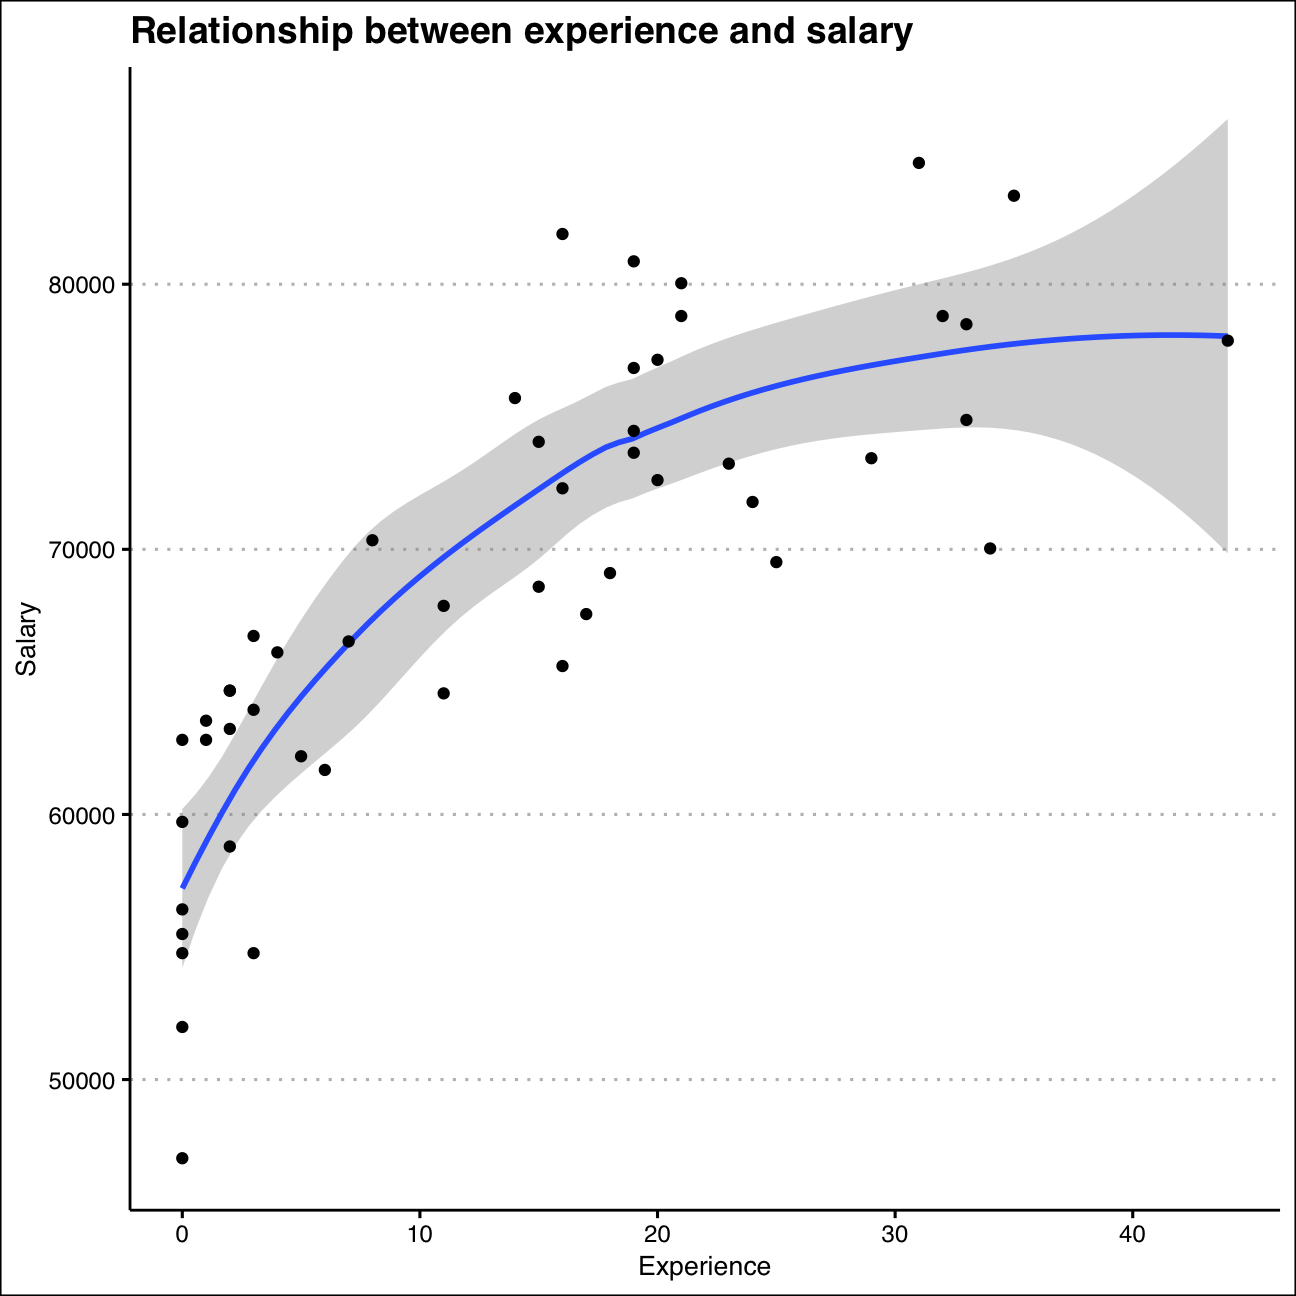
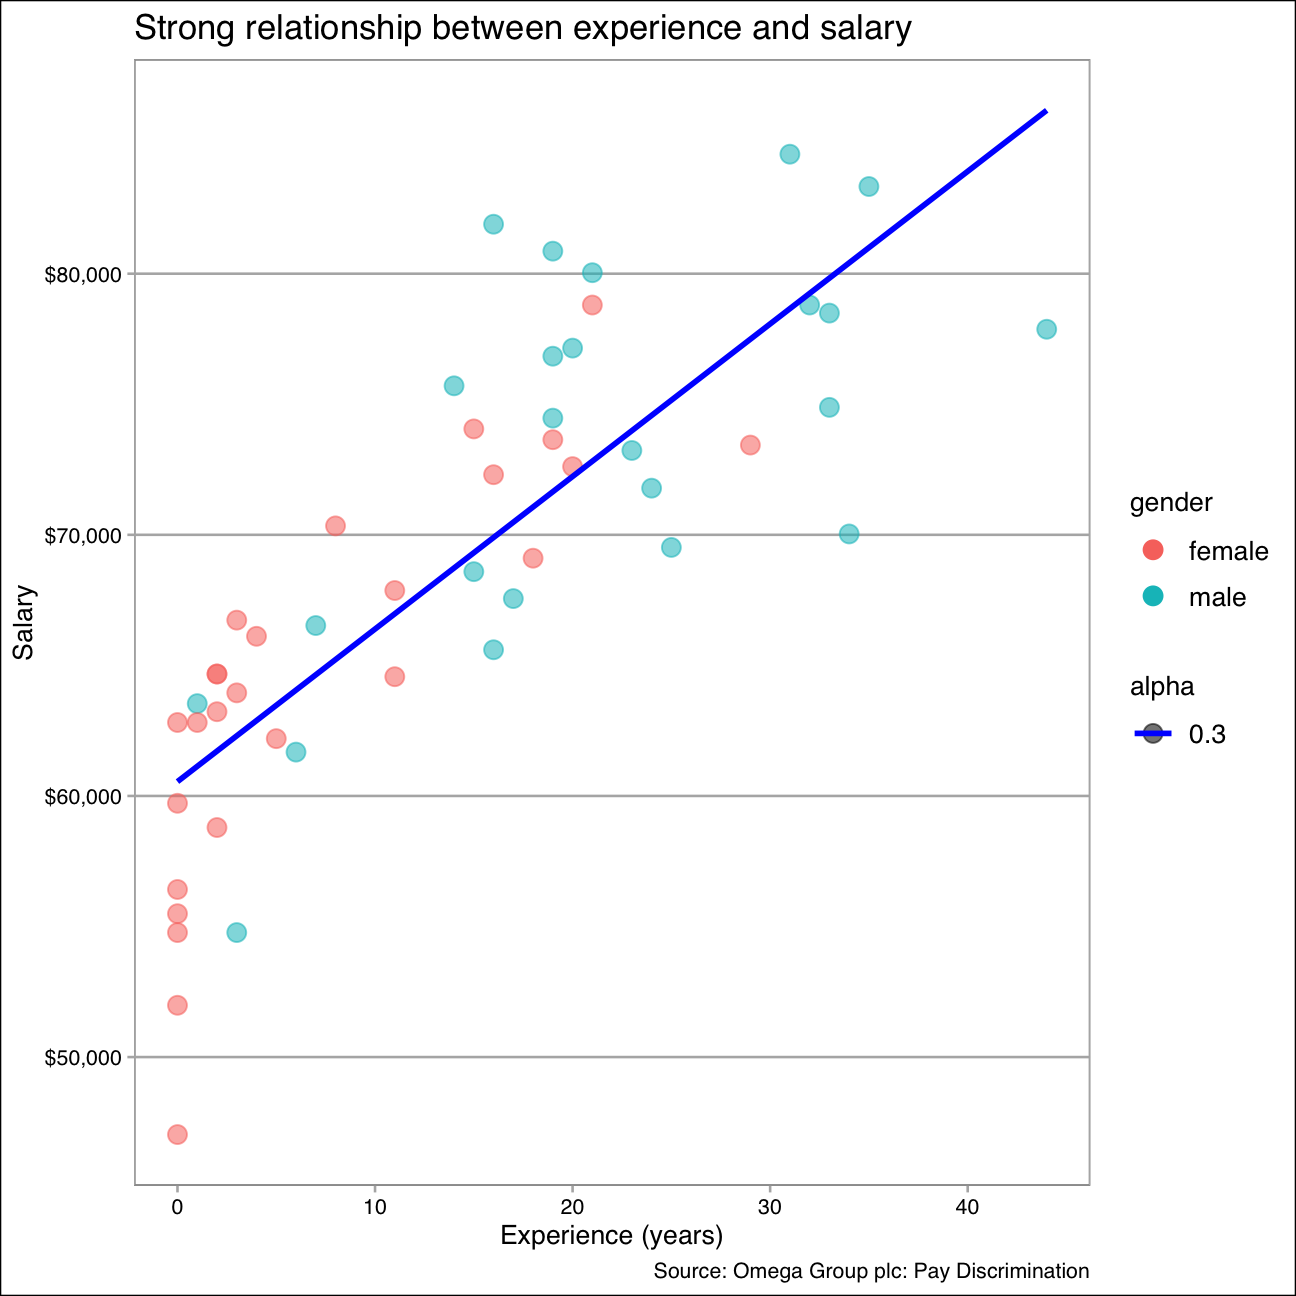
123

diff --git a/content/blogs/project_gender/blog5.html b/content/blogs/project_gender/blog5.html
@@ -15,8 +15,10 @@ title: Gender Pay Gap
 
 <div id="omega-group-plc--pay-discrimination" class="section level1">
 <h1>Omega Group plc- Pay Discrimination</h1>
-<p>At the last board meeting of Omega Group Plc., the headquarters of a large multinational company, the issue was raised that women were being discriminated in the company, in the sense that the salaries were not the same for male and female executives. A quick analysis of a sample of 50 employees (of which 24 men and 26 women) revealed that the average salary for men was about 8,700 higher than for women. This seemed like a considerable difference, so it was decided that a further analysis of the company salaries should be conducted.</p>
-<p>Our team carried out the analysis to find out whether there is indeed a significant difference between the salaries of men and women, and whether the difference is due to discrimination or whether it is based on another, possibly valid, determining factor.</p>
+<p>Scenario: A sample of 50 employees (24 men, 26 women) at Omega Group Plc showed a 8,700 difference in average salary for men compared to women.</p>
+<p>We are going to investigate whether this marked difference is indeed significant and whether there is an observable factor (such as experience) that could explain the difference.</p>
+<div id="loading-the-data" class="section level2">
+<h2>Loading the data</h2>
 <pre class="r"><code>omega &lt;- read_csv(here::here(&quot;data&quot;, &quot;omega.csv&quot;))
 glimpse(omega) # examine the data frame</code></pre>
 <pre><code>## Rows: 50
@@ -24,38 +26,32 @@ glimpse(omega) # examine the data frame</code></pre>
 ## $ salary     &lt;dbl&gt; 81894, 69517, 68589, 74881, 65598, 76840, 78800, 70033, 63…
 ## $ gender     &lt;chr&gt; &quot;male&quot;, &quot;male&quot;, &quot;male&quot;, &quot;male&quot;, &quot;male&quot;, &quot;male&quot;, &quot;male&quot;, &quot;m…
 ## $ experience &lt;dbl&gt; 16, 25, 15, 33, 16, 19, 32, 34, 1, 44, 7, 14, 33, 19, 24, …</code></pre>
-<div id="is-there-a-significant-difference-between-the-salaries-of-the-male-and-female-executives" class="section level2">
-<h2>Is there a significant difference between the salaries of the male and female executives?</h2>
+</div>
+<div id="relationship-salary---gender" class="section level2">
+<h2>Relationship Salary - Gender ?</h2>
+<p>Lets find out if there is a relationship between gender and pay.</p>
 <pre class="r"><code># Summary Statistics of salary by gender
-mosaic::favstats (salary ~ gender, data=omega)</code></pre>
-<pre><code>##   gender   min    Q1 median    Q3   max  mean   sd  n missing
-## 1 female 47033 60338  64618 70033 78800 64543 7567 26       0
-## 2   male 54768 68331  74675 78568 84576 73239 7463 24       0</code></pre>
-<pre class="r"><code># Dataframe with two rows (male-female) and having as columns gender, mean, SD, sample size, 
+gender_dataframe &lt;- mosaic::favstats (salary ~ gender, data=omega)
+
+# Dataframe with two rows (male-female) and having as columns gender, mean, SD, sample size, 
 # the t-critical value, the standard error, the margin of error, 
 # and the low/high endpoints of a 95% confidence interval
-statistics&lt;-omega%&gt;%
-select(salary,gender)%&gt;%
-  group_by(gender)%&gt;%
-  summarise(mean = mean(salary),
-            SD = sd(salary),
-            SampleSize = n(),
-            t_crit = qt(0.975,SampleSize-1),
-            SE = SD/sqrt(SampleSize),
-            MarginError = t_crit*SE,
-            LowBound = mean - MarginError,
-            HighBound = mean + MarginError)
-statistics</code></pre>
-<pre><code>## # A tibble: 2 x 9
-##   gender   mean    SD SampleSize t_crit    SE MarginError LowBound HighBound
-##   &lt;chr&gt;   &lt;dbl&gt; &lt;dbl&gt;      &lt;int&gt;  &lt;dbl&gt; &lt;dbl&gt;       &lt;dbl&gt;    &lt;dbl&gt;     &lt;dbl&gt;
-## 1 female 64543. 7567.         26   2.06 1484.       3056.   61486.    67599.
-## 2 male   73239. 7463.         24   2.07 1523.       3151.   70088.    76390.</code></pre>
+gender_dataframe2 &lt;- gender_dataframe %&gt;%
+  mutate(t_crit =qt(0.975,n-1),
+         SE = sd/sqrt(n),
+         ME = t_crit*SE,
+         lower = mean - ME,
+         upper = mean + ME)
+select(gender_dataframe2,-min, -Q1, -median, -Q3, -max, -missing)</code></pre>
+<pre><code>##   gender  mean   sd  n t_crit   SE   ME lower upper
+## 1 female 64543 7567 26   2.06 1484 3056 61486 67599
+## 2   male 73239 7463 24   2.07 1523 3151 70088 76390</code></pre>
 <blockquote>
-<p>From the data obtained, we can observe that the confidence intervals do not overlap. Hence, we can conclude that there is a significant difference between the salaries of male and female executives.</p>
+<p>We can conclude that based on the dataset above, there is a significant difference between the salaries paid to men and women. We can be 95% certain of this because, at this significance level, the two different confidence intervals do not overlap. Therefore it is very unlikely that the difference in salary averages paid to men and women occured by coincidence.</p>
 </blockquote>
-<pre class="r"><code># Hypothesis testing using t.test() 
-t.test(salary ~ gender, data = omega)</code></pre>
+<p>Next, we will conduct a hypothesis test to assess whether our null hypothesis, that salary averages of men and women are not significantly different, is accepted or rejected.</p>
+<pre class="r"><code># hypothesis testing using t.test() 
+t.test(salary ~ gender, data=omega)</code></pre>
 <pre><code>## 
 ##  Welch Two Sample t-test
 ## 
@@ -67,65 +63,70 @@ t.test(salary ~ gender, data = omega)</code></pre>
 ## sample estimates:
 ## mean in group female   mean in group male 
 ##                64543                73239</code></pre>
-<pre class="r"><code># Hypothesis testing using infer package
+<pre class="r"><code># hypothesis testing using infer package, firstly creating a bootstrap simulation
+set.seed(1234)
+salarygenderbootstrap &lt;- omega %&gt;%
+  # Specifying variable of interest:
+  specify(salary ~ gender) %&gt;%
+  # Set our null hypothesis as the two variables are independent:
+  hypothesise(null = &quot;independence&quot;) %&gt;%
+  # Creating a bootstrap simulation
+  generate( reps = 1000,
+            type = &quot;permute&quot;) %&gt;%
+  calculate(stat = &quot;diff in means&quot;,
+            order = c(&quot;male&quot;,&quot;female&quot;))
+#salarygenderbootstrap
 
-#Initialize the test
-init_sal_null&lt;-omega%&gt;%
-specify(salary ~ gender)%&gt;%
-calculate(stat=&quot;diff in means&quot;,order=c(&quot;female&quot;,&quot;male&quot;)) 
-
-#Simulate the test on the null distribution, which we will save as null
-salaries_null_world&lt;-omega%&gt;%
-  specify(salary ~ gender)%&gt;%
-  hypothesize(null=&quot;independence&quot;)%&gt;%
-  generate(reps=1000,type=&quot;permute&quot;)%&gt;%
-  calculate(stat=&quot;diff in means&quot;,order=c(&quot;female&quot;,&quot;male&quot;))
-
-#Visualize the null distribution and get the p value
-salaries_null_world %&gt;% visualize() +
-  shade_p_value(obs_stat = init_sal_null, direction = &quot;two-sided&quot;)+
+#Percentile method with infer package
+cipercentile &lt;- salarygenderbootstrap %&gt;%
+get_confidence_interval(level = 0.95,type=&quot;percentile&quot;)
+cipercentile</code></pre>
+<pre><code>## # A tibble: 1 x 2
+##   lower_ci upper_ci
+##      &lt;dbl&gt;    &lt;dbl&gt;
+## 1   -5025.    4829.</code></pre>
+<pre class="r"><code># Visualising bootstrap
+salarygenderbootstrap %&gt;%
+  visualise() +
+  geom_linerange(aes(gender_dataframe2[2,7]-gender_dataframe2[1,7],
+                     ymin=0,
+                     ymax=Inf),
+                 size=2,
+                 color=&quot;red&quot;)+
+                   annotate(&quot;text&quot;,x=6000,y=150,label=paste(&quot;Observation: $&quot;,round(gender_dataframe2[2,7]-gender_dataframe2[1,7],2)))+
   
-  #Customize the plot
-  labs(x=&quot;Difference between mean salary of women and men&quot;,y=&quot;Count&quot;,title=&quot;Is there a significant difference between men and women&#39;s salaries?&quot;,subtitle=&quot;Null hypothesis distribution and p-value&quot;)+theme_clean()</code></pre>
-<p><img src="/blogs/project_gender/blog5_files/figure-html/hypothesis_testing_salary_gender-1.png" width="648" style="display: block; margin: auto;" /></p>
-<pre class="r"><code>#Get the numerical value for p
-salaries_null_world %&gt;% get_p_value(obs_stat = init_sal_null, direction = &quot;two_sided&quot;)</code></pre>
+  # Shading the confidence interval on our bootstrap simulation
+  shade_confidence_interval(endpoints = cipercentile,colour=&quot;green&quot;,fill=&quot;lightblue&quot;)+
+  
+theme_clean()+
+scale_x_continuous(labels=scales::dollar_format())+
+  labs(x=&quot;Salary Gap&quot;,
+       y=&quot;Count&quot;,
+       title=&quot;Omega&#39;s Gender Pay Gap&quot;,
+       subtitle=&quot;Bootstrap simulation of gender pay gap&quot;,
+       caption=&quot;Source: Omega Group plc Salary Data&quot;) +NULL</code></pre>
+<p><img src="/blogs/project_gender/blog5_files/figure-html/hypothesis_testing_boostrap-1.png" width="648" style="display: block; margin: auto;" /></p>
+<pre class="r"><code># Finding the p-value, i.e. the probability of observing this sample mean by pure coincidence
+salarygenderbootstrap %&gt;%
+  get_pvalue(obs_stat = gender_dataframe2[2,7]-gender_dataframe2[1,7],direction=&quot;both&quot;)</code></pre>
 <pre><code>## # A tibble: 1 x 1
 ##   p_value
 ##     &lt;dbl&gt;
 ## 1       0</code></pre>
 <blockquote>
-<p>From the hypothesis testing, we are more than 95% confident that the null hypothesis is untrue. A significant difference between the male and female executive salaries has been confirmed in 3 different ways: the hypothesis testing using t.test(), the plot of the null hypothesis distribution with a red line corresponding to the p-threshold (as we can visually observe the line is very far away from 0), and a p&lt;0.05. However, we cannot affirm that this significant difference is due to discrimination as there may be some other factors involved. Finding out the true causes of the salary gap requires further analyses.</p>
+<p>0.2% chance that this is a coincidence, reject the null hypothesis. However, we cannot affirm that this significant salary difference is due to discrimination as there may be some other factors involved. Finding out the true causes of the salary gap requires further analyses.</p>
 </blockquote>
 </div>
-<div id="is-there-a-significant-difference-between-the-experience-of-the-male-and-female-executives" class="section level2">
-<h2>Is there a significant difference between the experience of the male and female executives?</h2>
-<pre class="r"><code># Summary Statistics of experience by gender
-favstats (experience ~ gender, data=omega)</code></pre>
+<div id="relationship-experience---gender" class="section level2">
+<h2>Relationship Experience - Gender?</h2>
+<p>The gender pay gap is definitely clear, but we now need to find out why. We learn that on average, men in the sample have 21 years of experience whereas women have 7 years. Could the level of experience be a strong driver of salary?</p>
+<pre class="r"><code># Summary Statistics of salary by gender
+gender_dataframe4 &lt;- favstats (experience ~ gender, data=omega)
+gender_dataframe4</code></pre>
 <pre><code>##   gender min    Q1 median   Q3 max  mean    sd  n missing
 ## 1 female   0  0.25    3.0 14.0  29  7.38  8.51 26       0
 ## 2   male   1 15.75   19.5 31.2  44 21.12 10.92 24       0</code></pre>
-<pre class="r"><code>#Calculate additional key statistics and confidence intervals
-statistics&lt;-omega%&gt;%
-select(experience,gender)%&gt;%
-  group_by(gender)%&gt;%
-  summarise(mean = mean(experience),
-            SD = sd(experience),
-            SampleSize = n(),
-            t_crit = qt(0.975,SampleSize-1),
-            SE=SD/sqrt(SampleSize),
-  MarginError=t_crit*SE,LowBound=mean-MarginError,HighBound=mean+MarginError)
-statistics</code></pre>
-<pre><code>## # A tibble: 2 x 9
-##   gender  mean    SD SampleSize t_crit    SE MarginError LowBound HighBound
-##   &lt;chr&gt;  &lt;dbl&gt; &lt;dbl&gt;      &lt;int&gt;  &lt;dbl&gt; &lt;dbl&gt;       &lt;dbl&gt;    &lt;dbl&gt;     &lt;dbl&gt;
-## 1 female  7.38  8.51         26   2.06  1.67        3.44     3.95      10.8
-## 2 male   21.1  10.9          24   2.07  2.23        4.61    16.5       25.7</code></pre>
-<blockquote>
-<p>The 95% confidence intervals do not overlap. Hence, we can conclude that there is a significant difference in the experience of female and male executives.
-Further tests based on null hypothesis are conducted below.</p>
-</blockquote>
-<pre class="r"><code># Hypothesis testing using t.test() 
+<pre class="r"><code># Conducting a t test for the relationship between gender and experience 
 t.test(experience ~ gender, data = omega)</code></pre>
 <pre><code>## 
 ##  Welch Two Sample t-test
@@ -138,68 +139,89 @@ t.test(experience ~ gender, data = omega)</code></pre>
 ## sample estimates:
 ## mean in group female   mean in group male 
 ##                 7.38                21.12</code></pre>
-<pre class="r"><code># Hypothesis testing using infer package
-#Initialize the test
-init_exp_null &lt;- omega %&gt;%
-specify(experience ~ gender)%&gt;%
-calculate(stat=&quot;diff in means&quot;,order=c(&quot;female&quot;,&quot;male&quot;)) 
-
-#Simulate the test on the null distribution, which we will save as experience_null_world
-experience_null_world &lt;- omega %&gt;%
+<p>Our p value is virtually zero, and our 95% confidence interval does not include a difference of zero between the two means. Therefore, there is a significant difference between the experience between men and women.</p>
+<pre class="r"><code>set.seed(5678)
+gender_experience &lt;- omega %&gt;%
   specify(experience ~ gender) %&gt;%
-  hypothesize(null=&quot;independence&quot;) %&gt;%
-  generate(reps=1000,type=&quot;permute&quot;) %&gt;%
-  calculate(stat=&quot;diff in means&quot;,order=c(&quot;male&quot;,&quot;female&quot;))
+  hypothesise(null = &quot;independence&quot;) %&gt;%
+  generate(reps=1000,
+           type=&quot;permute&quot;) %&gt;%
+  
+  calculate(stat = &quot;diff in means&quot;,
+            order = c(&quot;male&quot;,&quot;female&quot;))
 
-#Visualize the null distribution and get the p value
-experience_null_world %&gt;% visualize() +
-  shade_p_value(obs_stat = init_exp_null, direction = &quot;two-sided&quot;)+
- 
-   #Customize the plot
-  labs(x=&quot;Difference between mean experience of women and men&quot;,
+# Finding the 95% confidence interval using percentile method
+cigenderexperience &lt;- gender_experience %&gt;%
+  get_confidence_interval(level = 0.95, type=&quot;percentile&quot;)
+cigenderexperience</code></pre>
+<pre><code>## # A tibble: 1 x 2
+##   lower_ci upper_ci
+##      &lt;dbl&gt;    &lt;dbl&gt;
+## 1    -6.85     6.37</code></pre>
+<pre class="r"><code># Visualising bootstrap
+gender_experience %&gt;%
+  visualise() +
+  geom_linerange(aes(gender_dataframe4[2,7]- gender_dataframe4[1,7],
+                     ymin=0,
+                     ymax=Inf),
+                 size=2,
+                 color=&quot;red&quot;)+
+                   annotate(&quot;text&quot;,x=9,y=150,label=paste(&quot;Observation: &quot;,round(gender_dataframe4[2,7]-gender_dataframe4[1,7],2)))+
+  
+  # Highlighting the confidence interval on our visualised bootstrap simulation
+  shade_confidence_interval(endpoints = cigenderexperience, colour = &quot;green&quot;,fill=&quot;lightblue&quot;) +
+  
+theme_clean()+
+  labs(x=&quot;Experience Gap&quot;,
        y=&quot;Count&quot;,
-       title=&quot;Is there a significant difference between men and women&#39;s experience?&quot;,
-       subtitle=&quot;Null hypothesis distribution and p-value&quot;) +
-  theme_clean()</code></pre>
-<p><img src="/blogs/project_gender/blog5_files/figure-html/hypothesis_testing_experience-1.png" width="648" style="display: block; margin: auto;" /></p>
-<pre class="r"><code>#Get the numerical p value
-experience_null_world %&gt;% get_p_value(obs_stat = init_exp_null, direction = &quot;two_sided&quot;)</code></pre>
+       title=&quot;Title 1&quot;,
+       subtitle=&quot;Bootstrap simulation of gender pay gap&quot;,
+       caption=&quot;Source: Omega Group plc Salary Data&quot;) +NULL</code></pre>
+<p><img src="/blogs/project_gender/blog5_files/figure-html/experience_stats-1.png" width="648" style="display: block; margin: auto;" /></p>
+<pre class="r"><code>gender_experience %&gt;%
+  get_pvalue(obs_stat = gender_dataframe4[2,7]-gender_dataframe4[1,7],direction=&quot;both&quot;)</code></pre>
 <pre><code>## # A tibble: 1 x 1
 ##   p_value
 ##     &lt;dbl&gt;
 ## 1       0</code></pre>
 <blockquote>
-<p>From the data obtained using t.test(), the plot of the null distribution and the p value (which is less than 0.05), we can reject the null hypothesis. Hence, we can conclude that there is a significant difference between the experience of men and women. This conclusion doesn’t endanger the previous one that indicated that salaries of men and women are significantly different. However, from the current analysis, we can say the salaries are not necessarily different due to factors such as gender discrimination, there can be other factors such as experience having an important effect on the salary gap.</p>
+<p>All tests above support the rejection of the null hypothesis - a significant difference between the the experience of men and women can be confirmed. This is not contradictory with our previous results. However, it supports the thesis, that salary differences are not necessarily due to gender discrimination, but factors like experience might also have an impact.</p>
 </blockquote>
 </div>
-<div id="the-relationship-between-salary-and-experience" class="section level2">
-<h2>The relationship between salary and experience</h2>
-<pre class="r"><code>ggplot(omega,aes(x = experience,
-                 y = salary)) + 
-  geom_smooth() + 
-  theme_clean() + 
-  geom_point() + 
-  labs(title = &quot;Relationship between experience and salary&quot;,
-       x=&quot;Experience&quot;,
-       y=&quot;Salary&quot;)</code></pre>
+<div id="relationship-salary---experience" class="section level2">
+<h2>Relationship Salary - Experience ?</h2>
+<p>We will now investigate whether there is any significant relationship between experience and salary in order to determine whether there is a clear reason explaining Omega’s gender pay gap.</p>
+<pre class="r"><code>#Calculating correlation
+cor(omega$experience, omega$salary)</code></pre>
+<pre><code>## [1] 0.803</code></pre>
+<pre class="r"><code>#Correlation is 0.803, strong and positive</code></pre>
+<pre class="r"><code>#Plotting a scatterplot
+
+ggplot(omega,aes(x=experience,
+                 y=salary,alpha=0.3))+
+  geom_point(aes(colour = gender),size=3)+
+  geom_smooth(aes(x=experience,y=salary),
+              method=lm,
+              se=FALSE,
+              colour=&quot;blue&quot;)+
+  scale_y_continuous(labels=scales::dollar_format())+
+  theme_calc() +
+  labs(title = &quot;Strong relationship between experience and salary&quot;,
+       x=&quot;Experience (years)&quot;,
+       y=&quot;Salary&quot;,
+       caption = &quot;Source: Omega Group plc: Pay Discrimination&quot;)</code></pre>
 <p><img src="/blogs/project_gender/blog5_files/figure-html/salary_exp_scatter-1.png" width="648" style="display: block; margin: auto;" /></p>
 </div>
 <div id="check-correlations-between-the-data" class="section level2">
 <h2>Check correlations between the data</h2>
-<p>We will generate a matrix in order to better visualize relationships between salary, experience and gender before reaching a conclusion.</p>
+<p>Using <code>GGally:ggpairs()</code> to efficiently observe relationships between all the variables in our dataset.</p>
 <pre class="r"><code>omega %&gt;% 
   select(gender, experience, salary) %&gt;% #order variables they will appear in ggpairs()
-  ggpairs(aes(colour = gender, alpha = 0.3))+
+  ggpairs(aes(colour=gender, alpha = 0.3))+
   theme_bw()</code></pre>
 <p><img src="/blogs/project_gender/blog5_files/figure-html/ggpairs-1.png" width="648" style="display: block; margin: auto;" /></p>
 <blockquote>
-<p>The scatterplot displaying the relationship between salary and experience shows us that these two variables are positively correlated. Moreover, their relationship resemble a logarithmic function, meaning that the marginal effect of a year of experience is positive but decreases over time.</p>
-</blockquote>
-<blockquote>
-<p>Our previous hypothesis testing and the correlation matrix confirm that males have on average more experience and higher salaries than females at Omega. Moreover,the correlation between salary and experience is positive and significant for both genders (ρ females= 0.812, ρ males= 0.661, ρ both=0.803), validating that the salary gap between the two groups may not come from discrimination but mainly from the difference in experience.</p>
-</blockquote>
-<blockquote>
-<p>Note that the slight discrepancy in the correlation between salary and experience across genders is caused by the cluster at experience=0 : many females at Omega have no experience and start at different salaries, perhaps because they have different degrees or backgrounds. Since we have no data points for males at experience=0 , it generates a difference between ρ females and ρ males. It would have been interestin tog analyze further if the same would have happened to males with no experience.</p>
+<p>We can infer a strong positive relationship between salary and experience. Moreover, we can see that among the top 10 employees ranked by experience, only 1 is female. Conversely, all 6 employees with 0 years of experience are female. Therefore, we can have reasonable confidence in deducing that Omega’s gender pay gap is not necessarily discriminatory, but driven by very pronounced differences in experience which is a strong predictor of salary.</p>
 </blockquote>
 </div>
 </div>
